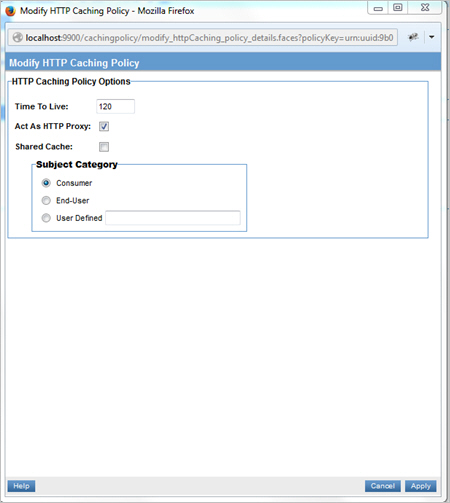
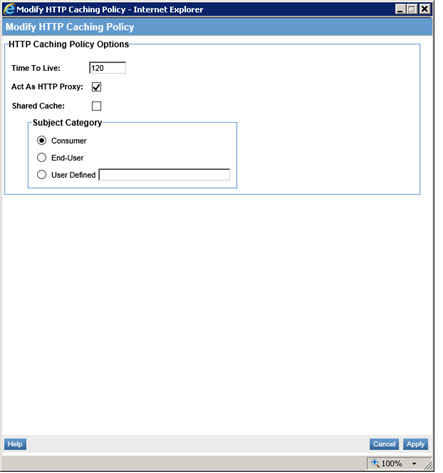
SM-13588 HTTP Cache Policy Updates

Changed region(s): [[0.0, 0.0, 1.0, 1.0]]

diff --git a/ag/workflow/workflow_conditions.htm b/ag/workflow/workflow_conditions.htm
@@ -1,0 +1,187 @@
+---
+layout: page
+title: Workflow Conditions
+description: Description of built-in Workflow Conditions that can be used to perform specific actions relative to a service, contract, or policy.
+product: ag
+category: learn
+sub-nav-class: Workflow
+weight:	6
+type: page
+nav-title: Workflow Conditions
+
+---
+
+<a name="top"></a>
+
+<h2 name="top">Workflow Conditions</h2>
+
+<p>xxx</p>
+
+
+<a href="workflow_management.htm" class="button secondary">Workflow Management</a>
+
+<a href="workflow_library.htm" class="button secondary">Workflow Library</a>
+
+
+<a href="pm_workflow_developers_guide.pdf" class="button secondary"> Workflow Developers Guide</a>
+<p></p>
+
+
+
+
+<div class = "divider1"></div>
+<h3 style="color: gray;">Table of Contents</h3>
+
+
+<ol class="table_of_contents">
+
+
+
+<li><a href="#introduction">Introduction</a></li>
+
+
+<li><a href="#general_functions">General Functions</a></li>
+
+<li><a href="#service_functions">Service Specific Functions</a></li>
+
+
+<li><a href="#contract_functions">Contract Specific Functions</a></li>
+
+<li><a href="#policy_functions">Policy Specific Functions</a></li>
+
+
+</ol>
+  <div class = "divider1"></div>
+  
+    <a name="introduction">
+<h2>Introduction</h2>
+</a>
+    <p>xxx</p>
+    <p><em>Note: Policy Workflow does not include functions.</em></p>
+<a name="general_variables">
+<h2>General Conditions</h2></a>
+<p>xxx</p>
+
+
+<table width="700
+" cellspacing="0px" class="doctable">
+  <thead>
+    <th width="188">xxx</th>
+    <th width="471">xxx</th>
+    <td width="33"></thead>
+    <tr class="t2row">
+      <td height="26">&nbsp;</td>
+      <td><p>&nbsp;</p>
+</td>
+    </tr>
+  <tr class="t1row">
+    <td height="26">&nbsp;</td
+    >
+    <td></li></td>
+  </tr>
+  <tr class="t2row">
+    <td height="30">&nbsp;</td>
+    <td>&nbsp;</td>
+
+  <tr class="t1row">
+    <td height="31">
+    <td>
+
+
+
+<p>&nbsp;</p></td>
+  </tr>
+  <tr class="t2row">
+    <td height="30">&nbsp;</td>
+    <td><p>&nbsp;</p></td>
+  
+  </tr>
+
+</table>
+<a name="service_variables">
+<h2>Service Specific Functions</h2></a>
+
+
+
+<p>xx following workflow </p>
+<p>&nbsp;</p>
+<table width="700
+" cellspacing="0px" class="doctable">
+  <thead>
+  </thead>
+  <tr>
+    <th width="188">xxx</th>
+    <th width="471">xxx</th>
+    <td width="33"></thead></td>
+  </tr>
+  <tr class="t2row">
+    <td height="26">&nbsp;</td>
+    <td><p>&nbsp;</p></td>
+  </tr>
+  <tr class="t1row">
+    <td height="26">&nbsp;</td
+    >
+    <td></li></td>
+  </tr>
+  <tr class="t2row">
+    <td height="30">&nbsp;</td>
+    <td>&nbsp;</td>
+  </tr>
+  <tr class="t1row">
+    <td height="31">&nbsp;</td>
+    <td><p>&nbsp;</p></td>
+  </tr>
+  <tr class="t2row">
+    <td height="30">&nbsp;</td>
+    <td><p>&nbsp;</p></td>
+  </tr>
+</table>
+<p>
+  </p>
+  <a name="contract_variables">
+</a></p>
+<a name="contract_variables">
+<h2>Contract Specific Functions</h2></a>
+
+
+
+<p>The following workflow functions </p>
+<p>&nbsp;</p>
+<table width="700
+" cellspacing="0px" class="doctable">
+  <thead>
+  </thead>
+  <tr>
+    <th width="188">xxx</th>
+    <th width="471">xxx</th>
+    <td width="33"></thead></td>
+  </tr>
+  <tr class="t2row">
+    <td height="26">&nbsp;</td>
+    <td><p>&nbsp;</p></td>
+  </tr>
+  <tr class="t1row">
+    <td height="26">&nbsp;</td
+    >
+    <td></li></td>
+  </tr>
+  <tr class="t2row">
+    <td height="30">&nbsp;</td>
+    <td>&nbsp;</td>
+  </tr>
+  <tr class="t1row">
+    <td height="31">&nbsp;</td>
+    <td><p>&nbsp;</p></td>
+  </tr>
+  <tr class="t2row">
+    <td height="30">&nbsp;</td>
+    <td><p>&nbsp;</p></td>
+  </tr>
+</table>
+<p>&nbsp;</p>
+<p><a href="#top">back to top</a></p>
+<p>&nbsp;</p>
+
+
+
+<div class = "divider1"></div>

diff --git a/ag/policies/using_the_http_caching_policy.htm b/ag/policies/using_the_http_caching_policy.htm
@@ -82,9 +82,9 @@ nav-title: Using the HTTP Caching Policy
 </ul>
 <h5>Step 2: Modify Policy</h5>
 <p>When you <strong>Modify</strong> the HTTP Caching   policy on the <em>Policy Details</em> page the initial policy will look like this:</p>
-<p><img src="images/modify_http_caching_policy.jpg" width="450" height="503" /></p>
+<p><img src="images/modify_http_caching_policy.jpg" width="443" height="473" /></p>
 <p>Configure the policy options based on your requirements and <strong>Apply</strong>. </p>
-<p><img src="images/http_cache_policy_summary.jpg" width="623" height="95" /></p>
+<p><img src="images/http_cache_policy_summary.jpg" width="541" height="155" /></p>
 <h5>Step 3: Attach Policy</h5>
 <p>After you have saved your policy you can  attach it to a web service,  operation, binding that you would like to enhance the message processing of.</p>
 <h5>Step 4: Test Policy and View Monitoring Data</h5>
